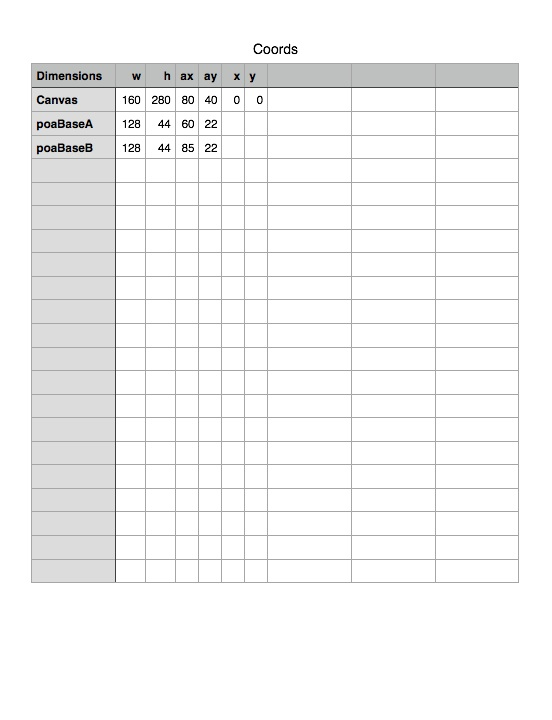
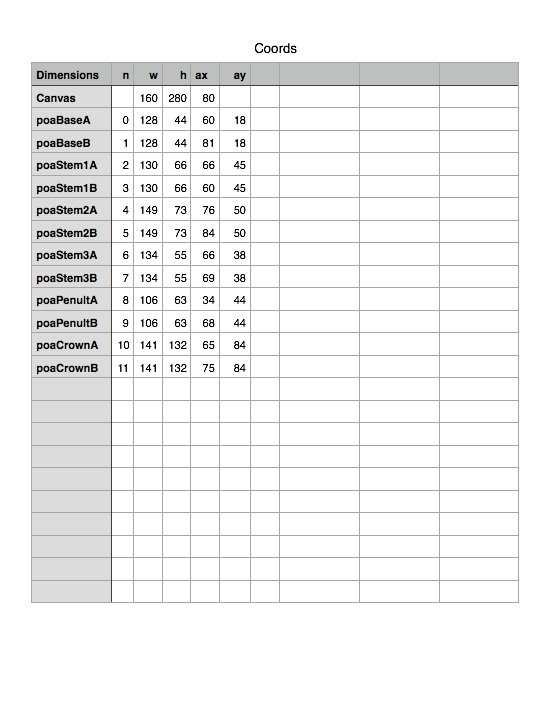
Version 0.1.5 Polishing of canvas plant drawing and json storage of plant data
Changes to be committed:
	new file:   gene-processing/demeter.json
	modified:   gene-processing/fieldControllers.js
	modified:   gene-processing/plants.json
	modified:   img/poa-basea.png
	modified:   img/poa-baseb.png
	modified:   img/poa-crowna.png
	modified:   img/poa-crownb.png
	modified:   img/poa-penulta.png
	modified:   img/poa-penultb.png
	modified:   img/poa-stem1a.png
	modified:   img/poa-stem1b.png
	modified:   img/poa-stem2a.png
	modified:   img/poa-stem2b.png
	modified:   img/poa-stem3a.png
	modified:   img/poa-stem3b.png
	modified:   img/working/Coords.numbers/Index.zip
	modified:   img/working/Coords.numbers/Metadata/Properties.plist
	modified:   img/working/Coords.numbers/preview-micro.jpg
	modified:   img/working/Coords.numbers/preview-web.jpg
	modified:   img/working/Coords.numbers/preview.jpg
	modified:   js/app.js
	modified:   other-logic/gridControllers.js

Changed region(s): [[0.0616, 0.0611, 0.9239, 0.8556], [0.6159, 0.7639, 0.6775, 0.825]]

diff --git a/gene-processing/fieldControllers.js b/gene-processing/fieldControllers.js
@@ -1,20 +1,15 @@
 var fieldControllers = angular.module('fieldControllers', []);
 
-fieldControllers.controller('ScaffoldCtrl', ['$scope', 'plantService', '$window', '$interval',
+fieldControllers.controller('ScaffoldCtrl', 
+	['$scope', 'plantService', '$window', '$interval',
 	function($scope, plantService, $window, $interval) {
 
 		// Pull plant data from plantService
-		this.allPlants = [];
 		$scope.myPlants = [];
 		plantService.getPlants().then(function(returnValues){
-			this.allPlants = returnValues.data;
-			// Select only plants that fit the current username
-			for (var iii=0; iii < this.allPlants.length; iii++) {
-				if (this.allPlants[iii]["owner"] === "Demeter") {
-					$scope.myPlants.push(this.allPlants[iii]);
-				}
-			}
+			$scope.myPlants = returnValues.data;
 		
+			// Set the initial state for fields
 			$scope.fields = [];
 			for (var iii=0; iii<4; iii++) {
 				this.fieldTemplate = {
@@ -27,15 +22,90 @@ fieldControllers.controller('ScaffoldCtrl', ['$scope', 'plantService', '$window'
 				$scope.fields.push(this.fieldTemplate);
 			};
 
+			// Variables that determine 
+
 			function DrawPlant(spot) {
 				// Initialize canvas image objects
-				var nsBackground = new Image();
-				nsBackground.src = "img/field-space.png";
+				var poaBaseA = new Image(); poaBaseA.src = "img/poa-basea.png";
+				var poaBaseB = new Image(); poaBaseB.src = "img/poa-baseb.png";
+				var poaStem1A = new Image(); poaStem1A.src = "img/poa-stem1a.png";
+				var poaStem1B = new Image(); poaStem1B.src = "img/poa-stem1b.png";
+				var poaStem2A = new Image(); poaStem2A.src = "img/poa-stem2a.png";
+				var poaStem2B = new Image(); poaStem2B.src = "img/poa-stem2b.png";
+				var poaStem3A = new Image(); poaStem3A.src = "img/poa-stem3a.png";
+				var poaStem3B = new Image(); poaStem3B.src = "img/poa-stem3b.png";
+				var poaPenultA = new Image(); poaPenultA.src = "img/poa-penulta.png";
+				var poaPenultB = new Image(); poaPenultB.src = "img/poa-penultb.png";
+				var poaCrownA = new Image(); poaCrownA.src = "img/poa-crowna.png";
+				var poaCrownB = new Image(); poaCrownB.src = "img/poa-crownb.png";
+
+				var nsBackground = new Image(); nsBackground.src = "img/field-space.png";
+
+				var ysum = 260; // ysum keeps track of the current position of the highest point
+				var xanc = 80; // xanc is the horizontal anchor point for the canvas
+				// anc is an array of anchor points for the plant pieces
+				var anc = [[60, 18], [81, 18], [66, 45], [60, 45], [76, 50], [84, 50],
+									 [66, 38], [69, 38], [34, 44], [68, 44], [65, 84], [75, 84]];
 
 				nsBackground.onload = function() {
 					var eleCanvas = $window.document.getElementsByClassName("plantCanvas")[spot];
 					var pCanvas = eleCanvas.getContext('2d');
 					pCanvas.drawImage(nsBackground, (120*(spot+1)), 70, 160, 280, 0, 0, 160, 280);
+					if (Math.random() > .5) {
+						pCanvas.drawImage(poaBaseA, (xanc-anc[0][0]), (ysum-anc[0][1]));
+						ysum -= anc[0][1];
+					}
+					else {
+						pCanvas.drawImage(poaBaseB, (xanc-anc[1][0]), (ysum-anc[1][1]));
+						ysum -= anc[1][1];
+					}
+					var heightSum = ((GeneCheck($scope.fields[spot]["planted"], "PS1"))
+												 + (GeneCheck($scope.fields[spot]["planted"], "PS2")));
+					if (heightSum > 0)
+						if (Math.random() > .5) {
+							pCanvas.drawImage(poaStem1A, (xanc-anc[2][0]), (ysum-anc[2][1]));
+							ysum -= anc[2][1];
+						}
+						else {
+							pCanvas.drawImage(poaStem1B, (xanc-anc[3][0]), (ysum-anc[3][1]));
+							ysum -= anc[3][1];
+						}			
+					if (heightSum > 1) {
+						if (Math.random() > .5) {
+							pCanvas.drawImage(poaStem2A, (xanc-anc[4][0]), (ysum-anc[4][1]));
+							ysum -= anc[4][1];
+						}
+						else {
+							pCanvas.drawImage(poaStem2B, (xanc-anc[5][0]), (ysum-anc[5][1]));
+							ysum -= anc[5][1];
+						}
+					}
+					if (heightSum > 2) {
+						if (Math.random() > .5) {
+							pCanvas.drawImage(poaStem3A, (xanc-anc[6][0]), (ysum-anc[6][1]));
+							ysum -= anc[6][1];
+						}
+						else {
+							pCanvas.drawImage(poaStem3B, (xanc-anc[7][0]), (ysum-anc[7][1]));
+							ysum -= anc[7][1];
+						}
+					}
+					if (Math.random() > .5) {
+						pCanvas.drawImage(poaPenultA, (xanc-anc[8][0]), (ysum-anc[8][1]));
+						ysum -= anc[8][1];
+					}
+					else {
+						pCanvas.drawImage(poaPenultB, (xanc-anc[9][0]), (ysum-anc[9][1]));
+						ysum -= anc[9][1];
+					}
+					if (Math.random() > .5) {
+						pCanvas.drawImage(poaCrownA, (xanc-anc[10][0]), (ysum-anc[10][1]));
+						ysum -= anc[10][1];
+					}
+					else {
+						pCanvas.drawImage(poaCrownB, (xanc-anc[11][0]), (ysum-anc[11][1]));
+						ysum -= anc[11][1];
+					}
 				}
 			}
 
@@ -55,5 +125,24 @@ fieldControllers.controller('ScaffoldCtrl', ['$scope', 'plantService', '$window'
 				DrawPlant(iii);
 			}
 
+			function GeneCheck(plantID, geneName) {
+				if (($scope.myPlants[plantID][geneName][0] === true)
+				 && ($scope.myPlants[plantID][geneName][1] === true)) {
+					return 2;
+				}
+				else if ((($scope.myPlants[plantID][geneName][0] === true)
+			      	 && ($scope.myPlants[plantID][geneName][1] === false))
+			       || ((($scope.myPlants[plantID][geneName][0] === false)
+				       && ($scope.myPlants[plantID][geneName][1] === true)))) {
+					return 1;
+				}
+				else if (($scope.myPlants[plantID][geneName][0] === false)
+				 			&& ($scope.myPlants[plantID][geneName][1] === false)) {
+					return 0;
+				}
+				else {
+					return "error";
+				}
+			}
 		});
 	}]);

diff --git a/other-logic/gridControllers.js b/other-logic/gridControllers.js
@@ -4,17 +4,10 @@ gridControllers.controller('SeedGridCtrl', ['$scope', 'plantService', 'globalSer
 	function($scope, plantService, globalService) {
 
 		// Pull plant data from plantService
-		this.allPlants = [];
 		$scope.myPlants = [];
 		$scope.gridPlants = [];
 		plantService.getPlants().then(function(returnValues) {
-			this.allPlants = returnValues.data;
-			// Select only plants that fit the current username
-			for (var iii=0; iii < this.allPlants.length; iii++) {
-				if (this.allPlants[iii]["owner"] === "Demeter") {
-					$scope.myPlants.push(this.allPlants[iii]);
-				}
-			}
+			$scope.myPlants = returnValues.data;
 
 			// Fill grid spaces with seeds/cuttings
 			for (var iii=0; iii<96; iii++) {
@@ -74,17 +67,10 @@ gridControllers.controller('PollenGridCtrl', ['$scope', 'plantService',
 	function($scope, plantService) {
 
 		// Pull plant data from plantService
-		this.allPlants = [];
 		$scope.myPlants = [];
 		$scope.gridPlants = [];
 		plantService.getPlants().then(function(returnValues){
-			this.allPlants = returnValues.data;
-			// Select only plants that fit the current username
-			for (var iii=0; iii < this.allPlants.length; iii++) {
-				if (this.allPlants[iii]["owner"] === "Demeter") {
-					$scope.myPlants.push(this.allPlants[iii]);
-				}
-			}
+			$scope.myPlants = returnValues.data;
 
 			for (var iii=0; iii<96; iii++) {
 				if ($scope.myPlants[iii] != undefined) {

diff --git a/js/app.js b/js/app.js
@@ -10,13 +10,13 @@
   app.service('plantService', function($http) {
     return {
       getPlants: function() {
-        return $http.get('./gene-processing/plants.json');
+        return $http.get('./gene-processing/demeter.json');
       },
       postPlants: function(currPlants) {
         return $http({
           withCredentials: false,
           method: 'post',
-          url: './gene-processing/plants.json',
+          url: './gene-processing/demeter.json',
           data: currPlants,
           headers: {'Content-Type': 'application/x-www-form-urlencoded'}
         })
